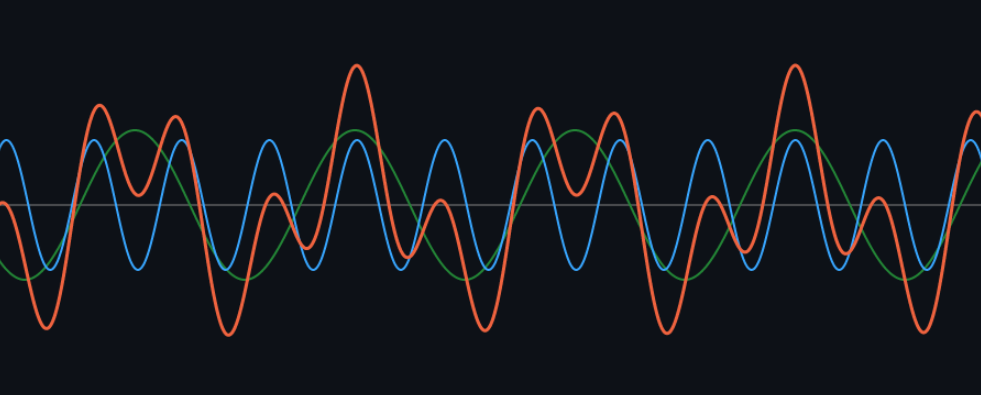
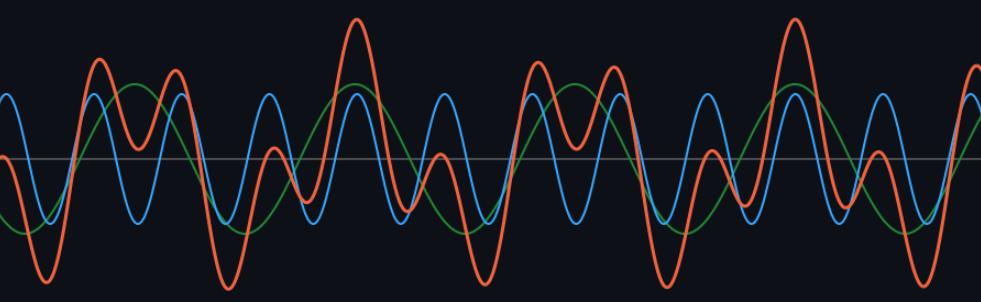
Modified image

diff --git a/README.md b/README.md
@@ -11,6 +11,13 @@ This project is currently a simple prototype designed for me to test the followi
 This concept was decided upon as regardless of the specific simulation chosen it will be required to dynamically draw content on a canvas.
 
 # Changlog
+## [0.7.0] - 2022/10/09
+### Added
+- Merged argand diagrams into one,
+- Added shift click functionalty for second waveform
+## [0.6.2] - 2022/10/09
+### Improved
+Improved mobile support with flex box wrapping
 ## [0.6.1] - 2022/10/09
 - Adjusted default waveforms
 - Optimised the code
